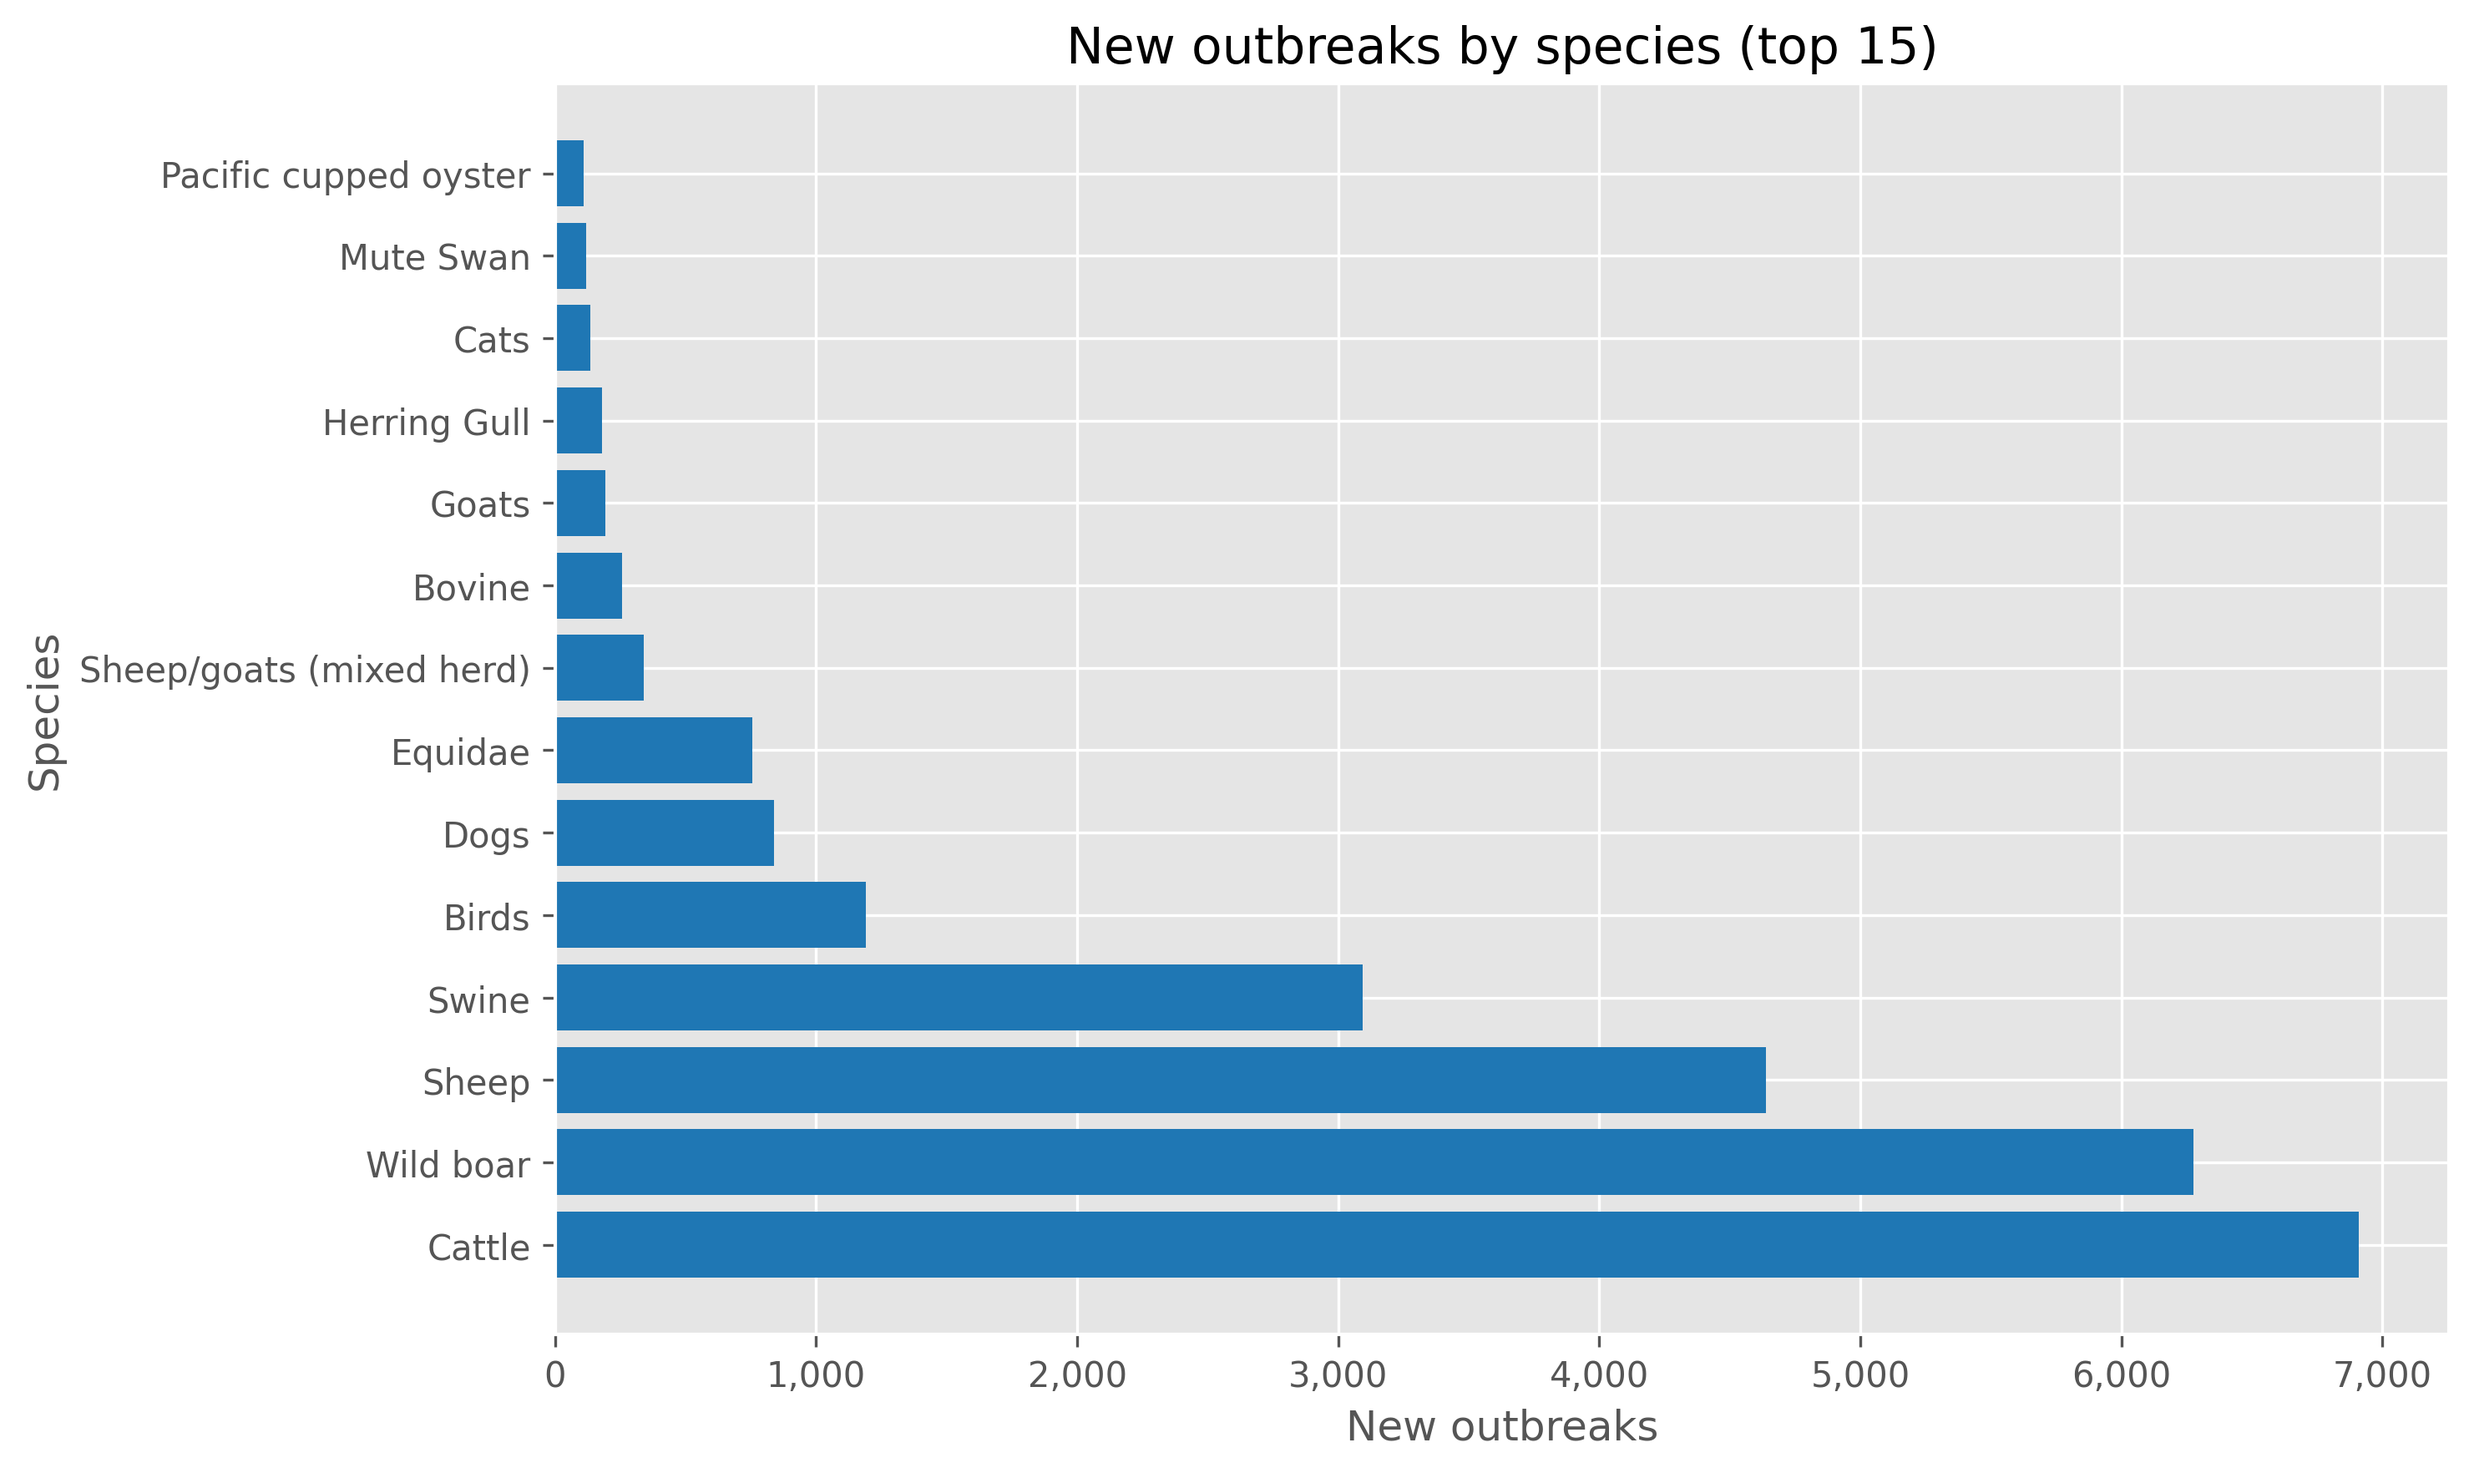
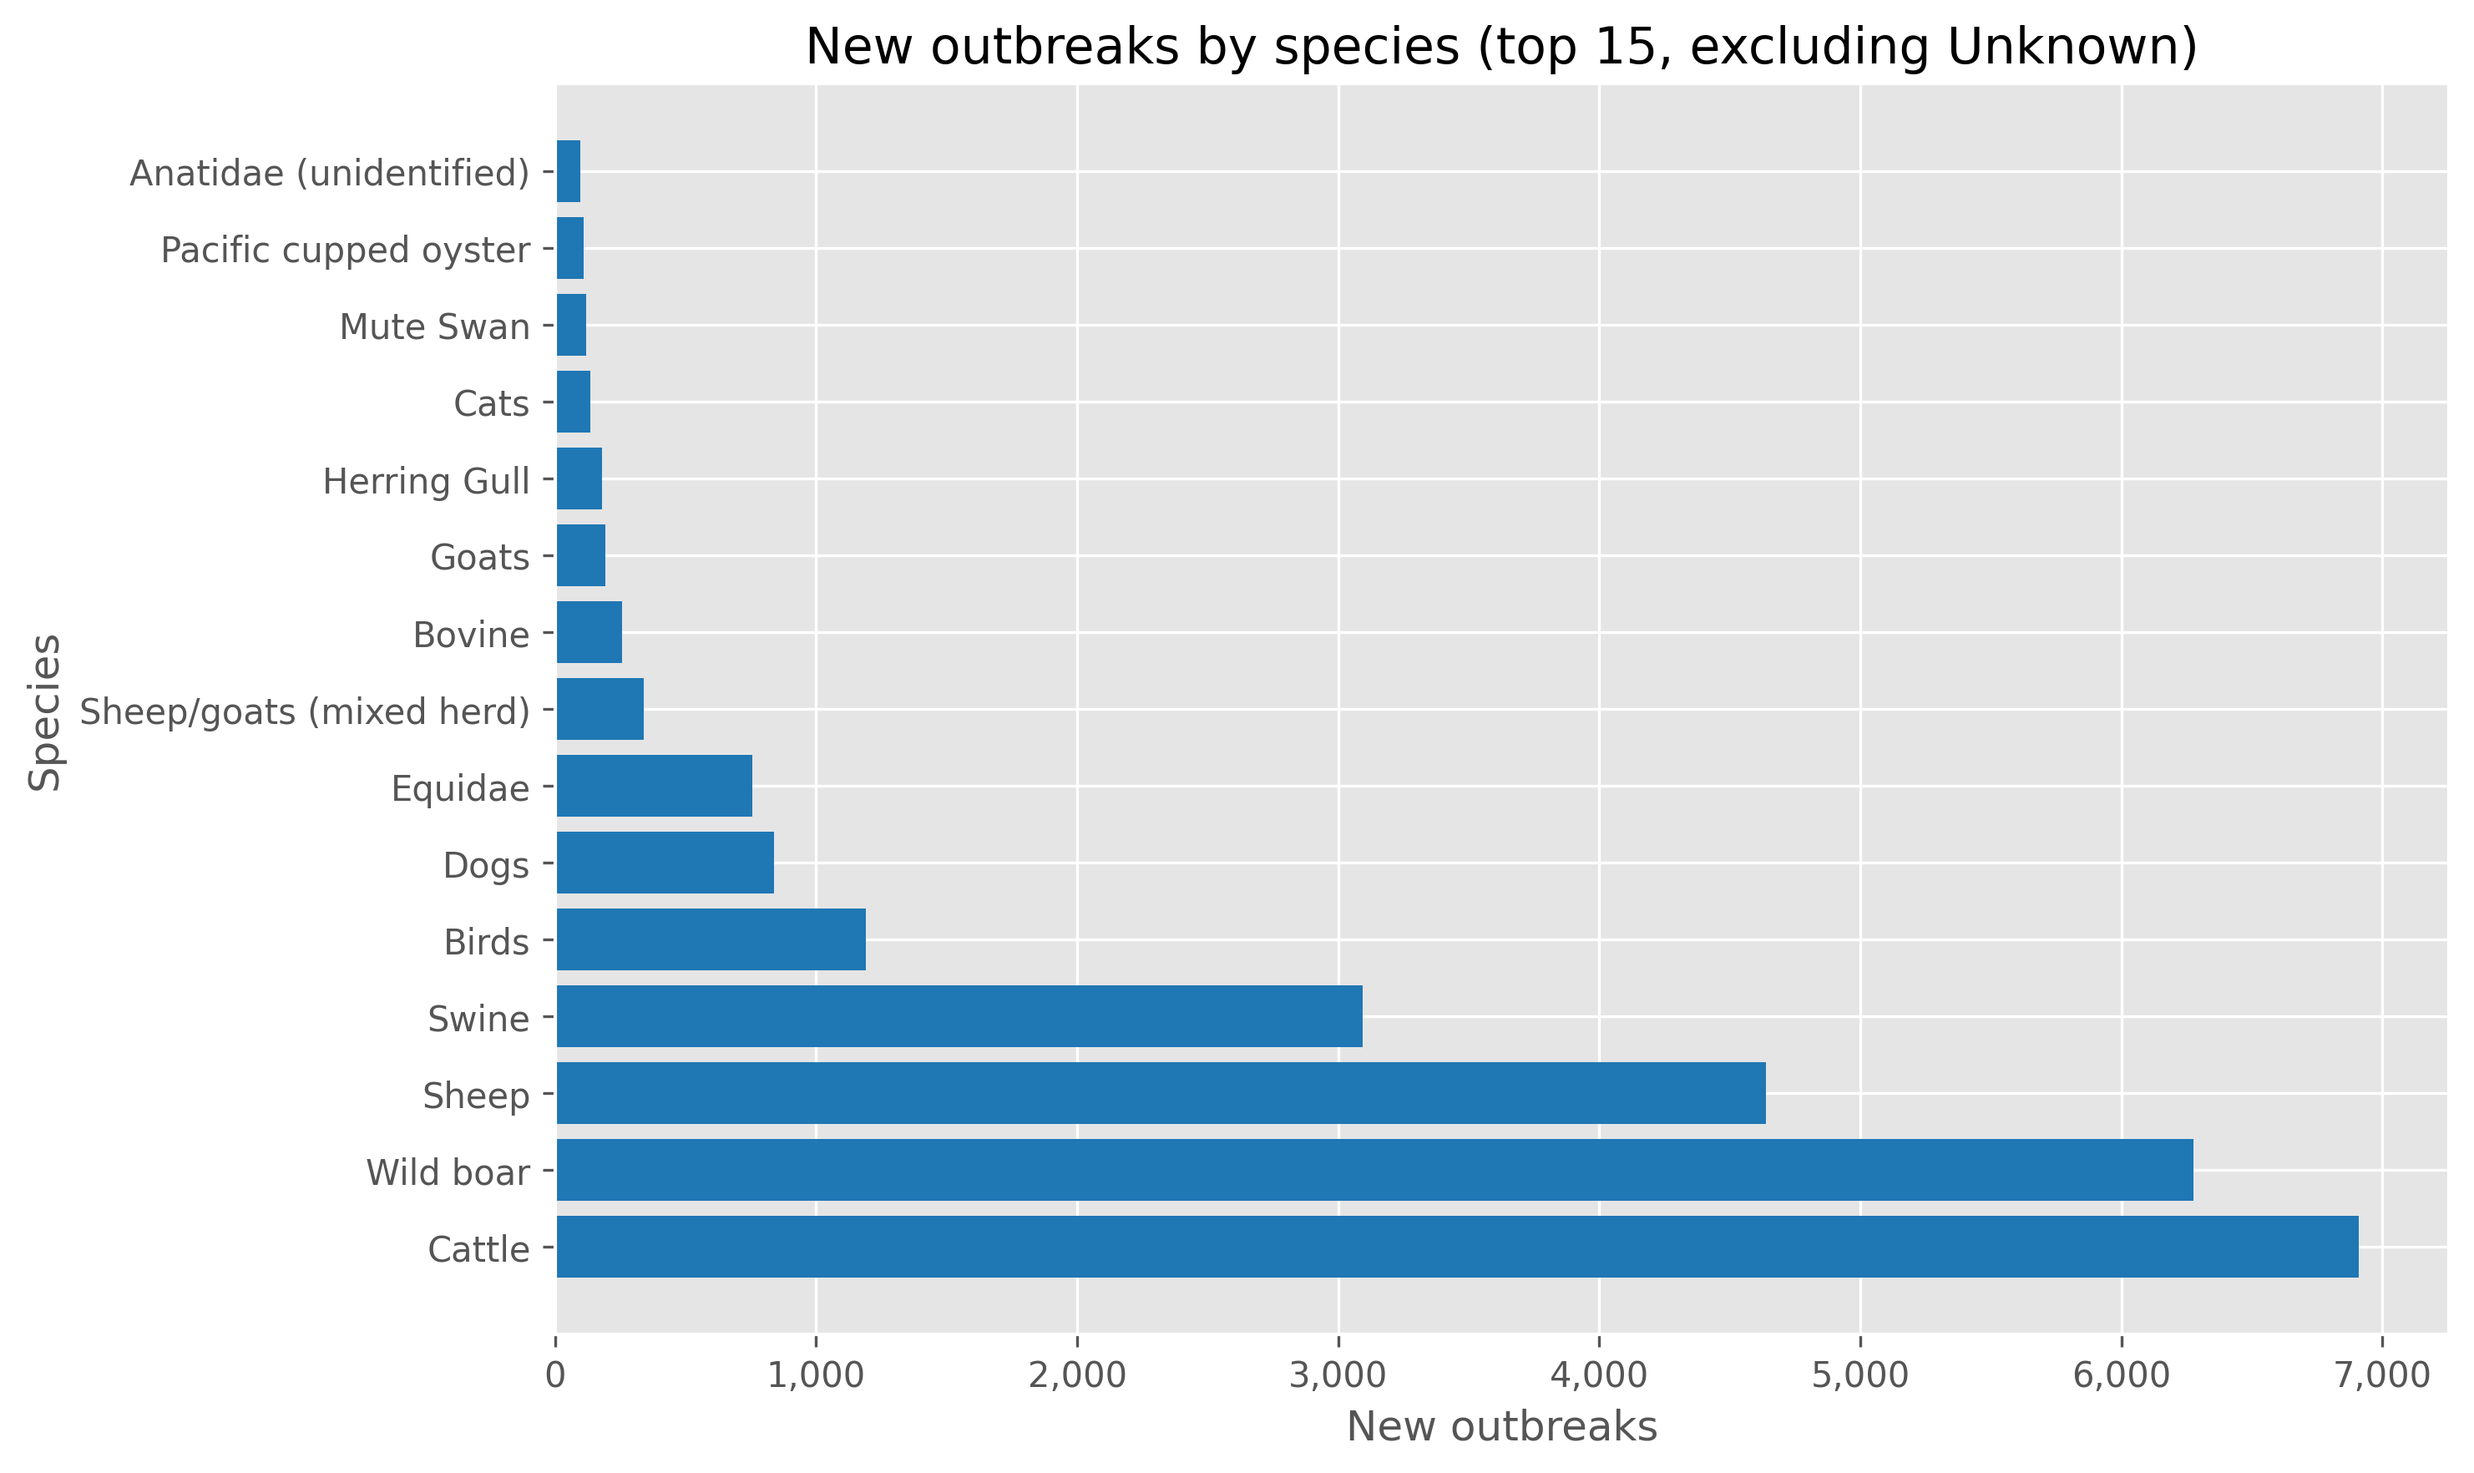
Viz outbreaks by region

diff --git a/results/report.md b/results/report.md
@@ -18,12 +18,17 @@ Honey bee diseases dominate the top of the list. American foulbrood (Paenibacill
 ## Outbreaks by Species
 ![Outbreaks by species](./outbreaks_by_species.png)
 
-Most records (4.7 million) are attributed to an unspecified species category, likely reflecting aggregate or environmental reporting. Among identified hosts, cattle, wild boar, sheep, and swine stand out, indicating that multi-host livestock diseases remain a major concern.
+The plotted bars exclude the "Unknown" category, but the summary table retains it and it still dominates with roughly 4.7 million outbreaks. Among identified hosts, cattle, wild boar, sheep, and swine remain prominent, underscoring that multi-host livestock diseases are a major concern.
 
 ## Outbreaks by Year
 ![Outbreaks by year](./outbreaks_by_year.png)
 
 Outbreak counts peak around 2016 and remain elevated through 2022 before easing. The drop in 2025 likely reflects partial-year data rather than an abrupt improvement. The overall level hints at persistent, widespread reporting rather than isolated spikes.
+
+## Outbreaks by World Region
+![Outbreaks by world region](./outbreaks_by_world_region.png)
+
+Africa and Asia carry the highest aggregated outbreak totals, while the Americas also show substantial activity. Oceania and the residual "Other" grouping remain comparatively low, highlighting where monitoring resources are most heavily engaged.
 
 ## Notes
 - Counts rely on the `New outbreaks` field; entries with missing values were treated as zero for aggregation.
